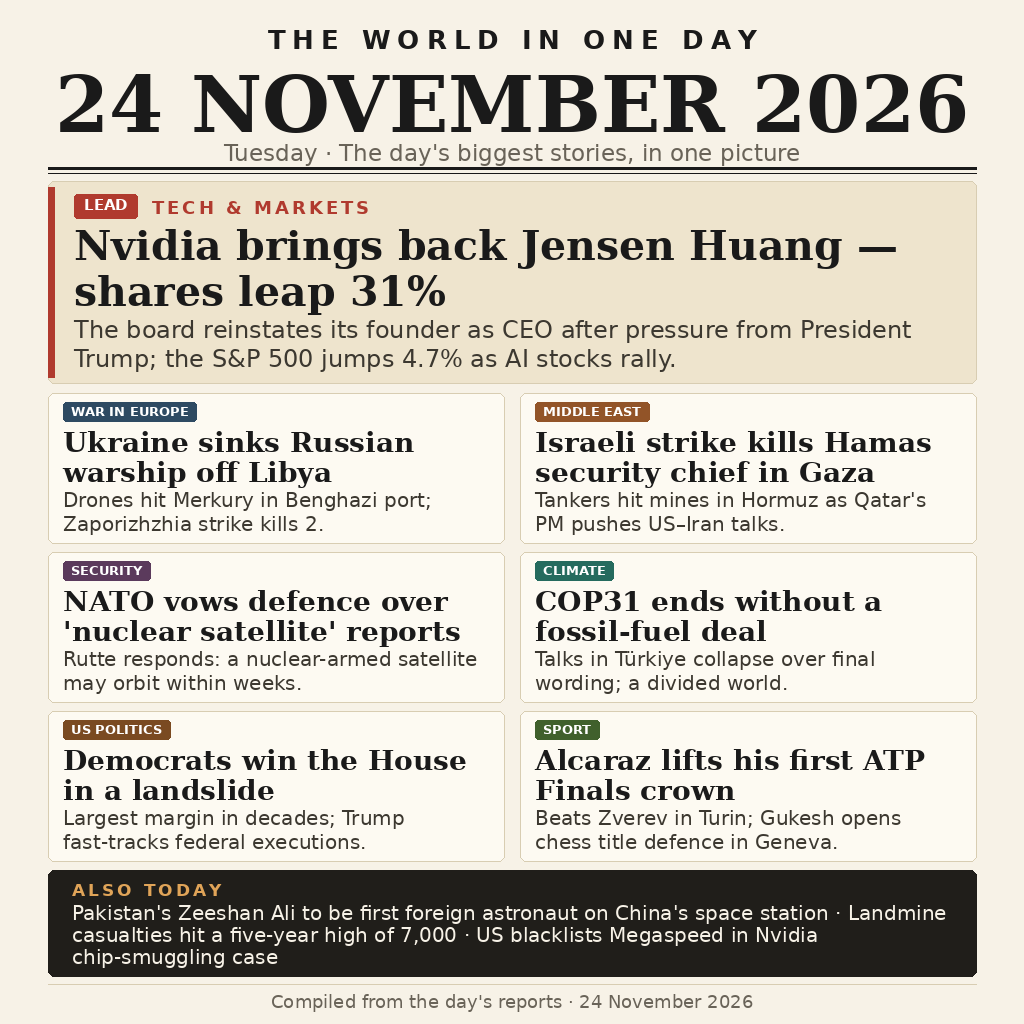
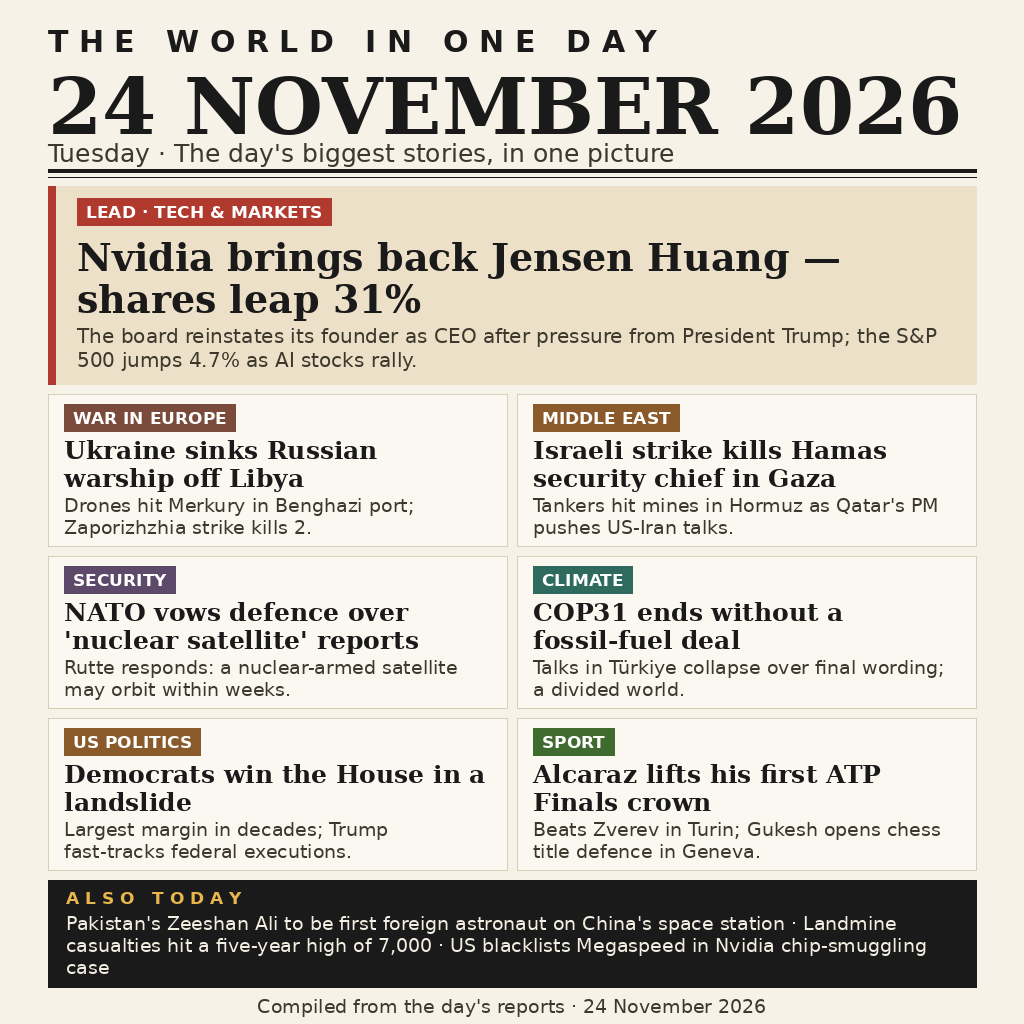
News image: drawn and refined in-session

Changed region(s): [[0.0312, 0.0312, 0.9688, 1.0]]

diff --git a/draw.py b/draw.py
@@ -1,0 +1,205 @@
+#!/usr/bin/env python3
+"""Draw a broadsheet-style front page summing up 24 November 2026.
+
+Renders entry.png (1024x1024) next to this script using PIL only.
+Layout is fully measured: every string is wrapped against
+ImageDraw.textlength so nothing overflows its box.
+"""
+
+from PIL import Image, ImageDraw, ImageFont
+
+# ---------------------------------------------------------------- constants
+W = H = 1024
+MARGIN = 48
+CONTENT_W = W - 2 * MARGIN
+
+PAPER = "#f7f2e7"
+INK = "#1a1a1a"
+ACCENT = "#b03a2e"
+LEAD_BG = "#ece1c8"
+PANEL_BG = "#fbf8f1"
+RULE = "#8a7f63"
+SUBINK = "#3d382c"
+
+SERIF_B = "/usr/share/fonts/truetype/dejavu/DejaVuSerif-Bold.ttf"
+SERIF = "/usr/share/fonts/truetype/dejavu/DejaVuSerif.ttf"
+SANS_B = "/usr/share/fonts/truetype/dejavu/DejaVuSans-Bold.ttf"
+SANS = "/usr/share/fonts/truetype/dejavu/DejaVuSans.ttf"
+
+
+def font(path, size):
+    return ImageFont.truetype(path, size)
+
+
+def fit_font(draw, text, path, size, max_w):
+    """Shrink size until text fits max_w; return the font."""
+    while size > 8 and draw.textlength(text, font=font(path, size)) > max_w:
+        size -= 2
+    return font(path, size)
+
+
+def wrap(draw, text, fnt, max_w):
+    """Greedy word wrap measured with textlength."""
+    lines, cur = [], ""
+    for word in text.split():
+        trial = word if not cur else cur + " " + word
+        if draw.textlength(trial, font=fnt) <= max_w:
+            cur = trial
+        else:
+            if cur:
+                lines.append(cur)
+            cur = word
+    if cur:
+        lines.append(cur)
+    return lines
+
+
+def text_block(draw, xy, text, fnt, fill, max_w, leading=1.18):
+    """Draw wrapped text; return the y just below it."""
+    x, y = xy
+    step = int(fnt.size * leading)
+    for line in wrap(draw, text, fnt, max_w):
+        draw.text((x, y), line, font=fnt, fill=fill)
+        y += step
+    return y
+
+
+def chip(draw, xy, label, bg, fnt=None):
+    """Small filled category label; return its (w, h)."""
+    fnt = fnt or font(SANS_B, 17)
+    tw = draw.textlength(label, font=fnt)
+    w, h = int(tw) + 18, 27
+    draw.rectangle([xy[0], xy[1], xy[0] + w, xy[1] + h], fill=bg)
+    draw.text((xy[0] + 9, xy[1] + 4), label, font=fnt, fill="#ffffff")
+    return w, h
+
+
+# ---------------------------------------------------------------- the story
+LEAD = {
+    "chip": "LEAD · TECH & MARKETS",
+    "headline": "Nvidia brings back Jensen Huang — shares leap 31%",
+    "sub": ("The board reinstates its founder as CEO after pressure from "
+            "President Trump; the S&P 500 jumps 4.7% as AI stocks rally."),
+}
+
+PANELS = [
+    ("WAR IN EUROPE", "#7a4a3a",
+     "Ukraine sinks Russian warship off Libya",
+     "Drones hit Merkury in Benghazi port; Zaporizhzhia strike kills 2."),
+    ("MIDDLE EAST", "#8a5a2b",
+     "Israeli strike kills Hamas security chief in Gaza",
+     "Tankers hit mines in Hormuz as Qatar's PM pushes US-Iran talks."),
+    ("SECURITY", "#5d4a6b",
+     "NATO vows defence over 'nuclear satellite' reports",
+     "Rutte responds: a nuclear-armed satellite may orbit within weeks."),
+    ("CLIMATE", "#2e6b5e",
+     "COP31 ends without a fossil-fuel deal",
+     "Talks in Türkiye collapse over final wording; a divided world."),
+    ("US POLITICS", "#8a5a2b",
+     "Democrats win the House in a landslide",
+     "Largest margin in decades; Trump fast-tracks federal executions."),
+    ("SPORT", "#3f6b2e",
+     "Alcaraz lifts his first ATP Finals crown",
+     "Beats Zverev in Turin; Gukesh opens chess title defence in Geneva."),
+]
+
+ALSO = ("Pakistan's Zeeshan Ali to be first foreign astronaut on China's "
+        "space station · Landmine casualties hit a five-year high of 7,000 "
+        "· US blacklists Megaspeed in Nvidia chip-smuggling case")
+
+
+# ---------------------------------------------------------------- drawing
+def draw_page():
+    img = Image.new("RGB", (W, H), PAPER)
+    d = ImageDraw.Draw(img)
+    x0 = MARGIN
+
+    # masthead
+    y = 24
+    f = fit_font(d, "T H E   W O R L D   I N   O N E   D A Y", SANS_B, 30, CONTENT_W)
+    d.text((x0, y), "T H E   W O R L D   I N   O N E   D A Y", font=f, fill=INK)
+    y += 36
+    f = fit_font(d, "24 NOVEMBER 2026", SERIF_B, 88, CONTENT_W)
+    d.text((x0, y), "24 NOVEMBER 2026", font=f, fill=INK)
+    y += int(f.size * 1.0)
+    d.text((x0, y), "Tuesday · The day's biggest stories, in one picture",
+           font=font(SANS, 25), fill=SUBINK)
+    y += 32
+    d.line([(x0, y), (x0 + CONTENT_W, y)], fill=INK, width=4)
+    d.line([(x0, y + 7), (x0 + CONTENT_W, y + 7)], fill=INK, width=1)
+    y += 16
+
+    # lead panel (height measured from its wrapped content)
+    pad = 22
+    inner_w = CONTENT_W - 7 - 2 * pad
+    head_f, sub_f = font(SERIF_B, 38), font(SANS, 20)
+    hl = wrap(d, LEAD["headline"], head_f, inner_w)
+    sl = wrap(d, LEAD["sub"], sub_f, inner_w)
+    lead_h = (12 + 27 + 10 + len(hl) * int(38 * 1.12) + 5
+              + len(sl) * int(20 * 1.2) + 12)
+    d.rectangle([x0, y, x0 + CONTENT_W, y + lead_h], fill=LEAD_BG)
+    d.rectangle([x0, y, x0 + 7, y + lead_h], fill=ACCENT)
+    cx = x0 + 7 + pad
+    cy = y + 12
+    chip(d, (cx, cy), LEAD["chip"], ACCENT)
+    cy += 37
+    cy = text_block(d, (cx, cy), LEAD["headline"], head_f, INK,
+                    inner_w, leading=1.12)
+    cy += 5
+    text_block(d, (cx, cy), LEAD["sub"], sub_f, SUBINK,
+               inner_w, leading=1.2)
+    y += lead_h + 10
+
+    # grid of six panels, two columns
+    gap = 10
+    col_w = (CONTENT_W - gap) // 2
+    head_f = font(SERIF_B, 25)
+    sub_f = font(SANS, 19)
+    for row in range(3):
+        row_h = 0
+        for col in range(2):
+            label, color, head, sub = PANELS[row * 2 + col]
+            px = x0 + col * (col_w + gap)
+            inner_w = col_w - 2 * 16
+            hl = wrap(d, head, head_f, inner_w)
+            sl = wrap(d, sub, sub_f, inner_w)
+            ph = 10 + 27 + 4 + len(hl) * int(25 * 1.12) + 3 + len(sl) * int(19 * 1.2) + 8
+            d.rectangle([px, y, px + col_w, y + ph], fill=PANEL_BG,
+                        outline="#d8cfb8", width=1)
+            cyy = y + 10
+            chip(d, (px + 16, cyy), label, color)
+            cyy += 31
+            cyy = text_block(d, (px + 16, cyy), head, head_f, INK, inner_w,
+                             leading=1.12)
+            cyy += 3
+            text_block(d, (px + 16, cyy), sub, sub_f, SUBINK, inner_w,
+                       leading=1.2)
+            row_h = max(row_h, ph)
+        y += row_h + gap
+
+    # also today strip (height measured from its wrapped lines)
+    also_f = font(SANS, 19)
+    also_lines = wrap(d, ALSO, also_f, CONTENT_W - 36)
+    strip_h = 32 + len(also_lines) * int(19 * 1.18) + 9
+    d.rectangle([x0, y, x0 + CONTENT_W, y + strip_h], fill=INK)
+    d.text((x0 + 18, y + 8), "A L S O   T O D A Y", font=font(SANS_B, 17),
+           fill="#e8b64c")
+    text_block(d, (x0 + 18, y + 32), ALSO, also_f, "#f2eee2",
+               CONTENT_W - 36, leading=1.18)
+    y += strip_h + 8
+
+    # footer
+    f = font(SANS, 19)
+    foot = "Compiled from the day's reports · 24 November 2026"
+    tw = d.textlength(foot, font=f)
+    d.text(((W - tw) / 2, y), foot, font=f, fill=SUBINK)
+    assert y + 24 <= H, f"page overflows: footer ends at {y + 24} of {H}"
+
+    return img
+
+
+if __name__ == "__main__":
+    import os
+    out = os.path.join(os.path.dirname(os.path.abspath(__file__)), "entry.png")
+    draw_page().save(out)
+    print("wrote", out)

diff --git a/main.py b/main.py
@@ -1,9 +1,18 @@
-import os, shutil
+"""Hand in the news image: copy entry.png to the output directory."""
+
+import os
+import shutil
+
 
 def main():
-    os.makedirs("/output", exist_ok=True)
-    src = os.path.join(os.path.dirname(os.path.abspath(__file__)), "entry.png")
-    shutil.copyfile(src, "/output/entry.png")
+    here = os.path.dirname(os.path.abspath(__file__))
+    src = os.path.join(here, "entry.png")
+    if not os.path.isfile(src):
+        raise SystemExit(f"entry.png not found next to main.py in {here}")
+    out_dir = os.environ.get("MAKEFUN_OUTPUT_DIR", "/output")
+    os.makedirs(out_dir, exist_ok=True)
+    shutil.copyfile(src, os.path.join(out_dir, "entry.png"))
+
 
 if __name__ == "__main__":
     main()
